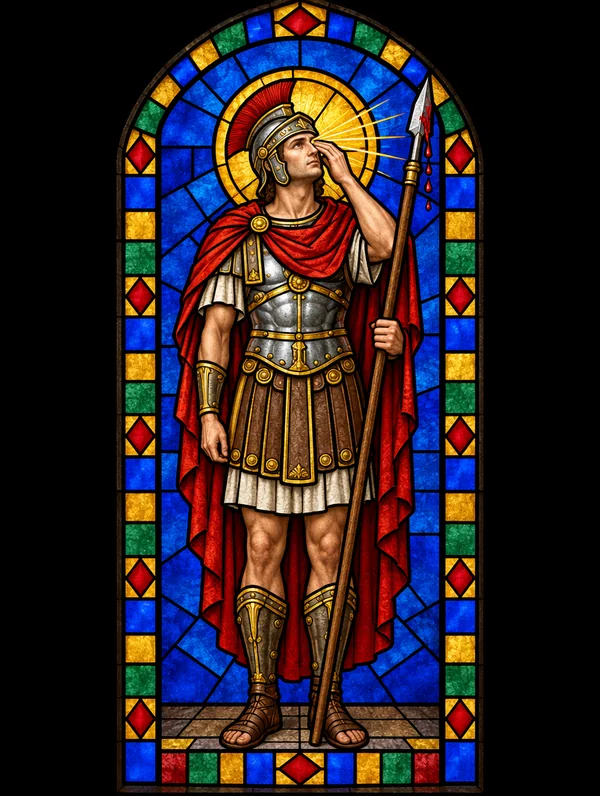
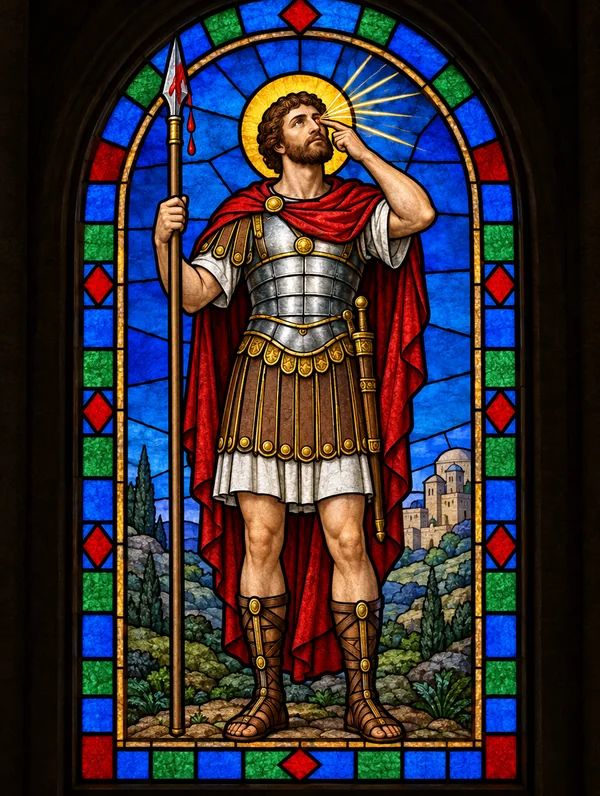
São Longuinho: vitral novo, com dois braços e a lança na mão direita
O endereço da imagem ganha ?v=2, para quem guardou o jogo sem internet baixar só ela de novo.

Claude-Session: https://claude.ai/code/session_013or7u1RPkYaDd9GnH7xnZ8

diff --git a/index.html b/index.html
@@ -1245,8 +1245,11 @@ h1 { font-family: var(--display); font-weight: 400; font-size: 2rem; margin: 0; 
   // Santos com imagem aprovada. Quem não está na lista aparece com o desenho em SVG.
   const COM_FIGURA = ["pedro", "paulo", "francisco", "jorge", "teresinha", "antonio", "sebastiao", "luzia", "jose", "miguel", "barbara", "joao", "clara", "rita", "judas", "cristovao", "expedito", "nicolau", "pio", "cosme", "edwiges", "teresacalcuta", "joaopaulo", "bento", "madalena", "catarina", "lourenco", "agostinho", "inacio", "domingos", "jeronimo", "patricio", "cecilia", "bras", "roque", "tiago", "mateus", "marcos", "lucas", "joaoev", "andre", "estevao", "martinho", "helena", "joana", "faustina", "bernadete", "teresaavila", "galvao", "anchieta", "benedito", "longuinho", "ambrosio", "gregorio", "apolonia", "rosalima", "xavier", "antao", "kolbe", "ferrer", "bakhita", "eloi", "huberto", "goncalo", "isidoro", "bartolomeu", "barnabe", "rafael", "josemaria", "ana", "monica", "veronica", "dulce", "margaridamaria", "gabriel", "reismagos", "joaobosco", "carloacutis", "vicentepaulo", "marta", "isabel", "catarinasena", "efigenia", "paulina", "gianna", "joaquim", "luisgonzaga", "camilo", "martinholima", "raimundononato", "vianney", "tarcisio", "joaodiego", "simaostock", "dimas", "onofre", "tomasaquino", "carlosborromeu", "joaodacruz", "brigida", "escolastica", "doroteia", "edithstein", "filipe", "tiagomenor", "joaodedeus", "januario", "bonifacio", "nepomuceno", "frassati", "charbel", "cupertino", "foucauld", "inacioantioquia", "tomasbecket", "brandao", "amaro", "ivo", "ines", "pastorinhos", "tome", "tomasmore", "boaventura", "bruno", "filipeneri", "franciscopaula", "germano", "ezequielmoreno", "tomasvilanova", "joaosahagun", "nicolautolentino", "madalenanagasaki", "simao", "matias", "valentim", "silvestre", "pancracio", "geraldo", "catarinalaboure", "joaoxxiii", "domingossavio", "mariagoretti", "lazaro", "piox", "luisrei", "paulovi", "franciscosales", "afonso", "bernardo", "crisostomo", "dionisio", "ursula", "genoveva", "damiao", "pedroclaver", "romero", "zita", "peregrino", "luiszelia", "luisamarillac", "pedroalcantara", "cunhau", "margaridaantioquia", "paulomiki", "gil", "vito", "roquegonzalez", "kateri", "junipero", "fiacre", "venceslau", "clemente", "perpetua", "basilio", "leao", "anselmo", "beda", "norberto", "kostka", "angelamerici", "lwanga", "cirilometodio", "solano", "mariaegipciaca"];   // img/santos/<id>.webp
   const COM_SIMBOLOS = ["pedro", "paulo", "francisco", "jorge", "teresinha", "antonio", "sebastiao", "luzia", "jose", "miguel", "barbara", "joao", "clara", "rita", "judas", "cristovao", "expedito", "nicolau", "pio", "cosme", "edwiges", "teresacalcuta", "joaopaulo", "bento", "madalena", "catarina", "lourenco", "agostinho", "inacio", "domingos", "jeronimo", "patricio", "cecilia", "bras", "roque", "tiago", "mateus", "marcos", "lucas", "joaoev", "andre", "estevao", "martinho", "helena", "joana", "faustina", "bernadete", "teresaavila", "galvao", "anchieta", "benedito", "longuinho", "ambrosio", "gregorio", "apolonia", "rosalima", "xavier", "antao", "kolbe", "ferrer", "bakhita", "eloi", "huberto", "goncalo", "isidoro", "bartolomeu", "barnabe", "rafael", "josemaria", "ana", "monica", "veronica", "dulce", "margaridamaria", "gabriel", "reismagos", "joaobosco", "carloacutis", "vicentepaulo", "marta", "isabel", "catarinasena", "efigenia", "paulina", "gianna", "joaquim", "luisgonzaga", "camilo", "martinholima", "raimundononato", "vianney", "tarcisio", "joaodiego", "simaostock", "dimas", "onofre", "tomasaquino", "carlosborromeu", "joaodacruz", "brigida", "escolastica", "doroteia", "edithstein", "filipe", "tiagomenor", "joaodedeus", "januario", "bonifacio", "nepomuceno", "frassati", "charbel", "cupertino", "foucauld", "inacioantioquia", "tomasbecket", "brandao", "amaro", "ivo", "ines", "pastorinhos", "tome", "tomasmore", "boaventura", "bruno", "filipeneri", "franciscopaula", "germano", "ezequielmoreno", "tomasvilanova", "joaosahagun", "nicolautolentino", "madalenanagasaki", "simao", "matias", "valentim", "silvestre", "pancracio", "geraldo", "catarinalaboure", "joaoxxiii", "domingossavio", "mariagoretti", "lazaro", "piox", "luisrei", "paulovi", "franciscosales", "afonso", "bernardo", "crisostomo", "dionisio", "ursula", "genoveva", "damiao", "pedroclaver", "romero", "zita", "peregrino", "luiszelia", "luisamarillac", "pedroalcantara", "cunhau", "margaridaantioquia", "paulomiki", "gil", "vito", "roquegonzalez", "kateri", "junipero", "fiacre", "venceslau", "clemente", "perpetua", "basilio", "leao", "anselmo", "beda", "norberto", "kostka", "angelamerici", "lwanga", "cirilometodio", "solano", "mariaegipciaca"]; // img/simbolos/<id>.webp
-  const imgFor = (id, md) => md === "imagem" ? (COM_FIGURA.includes(id) ? `img/santos/${id}.webp` : null)
-    : (COM_SIMBOLOS.includes(id) ? `img/simbolos/${id}.webp` : null);
+  // Imagem refeita com o mesmo nome: o número entra no endereço, e os aparelhos que guardaram o jogo baixam só ela de novo
+  const REFEITAS = { "santos/longuinho": 2 };
+  const arquivo = (serie, id) => `img/${serie}/${id}.webp` + (REFEITAS[`${serie}/${id}`] ? `?v=${REFEITAS[`${serie}/${id}`]}` : "");
+  const imgFor = (id, md) => md === "imagem" ? (COM_FIGURA.includes(id) ? arquivo("santos", id) : null)
+    : (COM_SIMBOLOS.includes(id) ? arquivo("simbolos", id) : null);
   function artFor(saint, md) {
     const src = imgFor(saint.id, md);
     return src ? `<img class="glass" src="${src}" width="600" height="796" alt="${md === "imagem" ? "Vitral de um santo" : "Vitral com símbolos de um santo"}">` : windowSVG(saint);
@@ -1439,7 +1442,7 @@ h1 { font-family: var(--display); font-weight: 400; font-size: 2rem; margin: 0; 
 
   // Jogar sem internet. O sw.js serve o que estiver guardado no aparelho; aqui se guardam as imagens todas de uma vez.
   const CACHE_IMAGENS = "quiz-santos-imagens-v1"; // o mesmo nome que está no sw.js
-  const todasImagens = () => [...COM_FIGURA.map(id => `img/santos/${id}.webp`), ...COM_SIMBOLOS.map(id => `img/simbolos/${id}.webp`)];
+  const todasImagens = () => [...COM_FIGURA.map(id => arquivo("santos", id)), ...COM_SIMBOLOS.map(id => arquivo("simbolos", id))];
   const offline = {
     async faltam() {
       const tem = new Set((await (await window.caches.open(CACHE_IMAGENS)).keys()).map(r => r.url.split("/img/")[1]));

diff --git a/testes/verifica.js b/testes/verifica.js
@@ -271,6 +271,13 @@ const MULHERES = "teresinha luzia catarina barbara clara rita cecilia apolonia h
   }
 }
 
+// J. Imagem refeita: São Longuinho ganhou vitral novo em 13/10/2026 e o endereço muda, para os aparelhos baixarem de novo
+{
+  const { q } = carregar();
+  confere(q.imgFor("longuinho", "imagem") === "img/santos/longuinho.webp?v=2", "J: a figura de São Longuinho deveria vir com ?v=2");
+  confere(q.imgFor("longuinho", "simbolos") === "img/simbolos/longuinho.webp", "J: os símbolos de São Longuinho não mudaram");
+}
+
 // I. Compartilhar pelo WhatsApp: o botão leva a mensagem e o link do jogo, sem o ?/# de quem compartilhou
 {
   const { els } = carregar({}, null, { location: { protocol: "https:", origin: "https://exemplo.test", pathname: "/quiz/", search: "?x=1", hash: "#y" } });

diff --git a/sw.js b/sw.js
@@ -1,6 +1,6 @@
 // Deixa o Quiz dos Santos abrir sem internet: guarda a página e as imagens no aparelho e as serve de lá.
-// Mudou favicon, ícone ou manifesto: suba o número de CASCA. Refez imagem com o mesmo nome: suba o de IMAGENS
-// (e o mesmo nome no index.html), para os aparelhos baixarem de novo.
+// Mudou favicon, ícone ou manifesto: suba o número de CASCA. Refez imagem com o mesmo nome: ponha (ou suba) o número
+// dela em REFEITAS, no index.html, e só ela é baixada de novo. Subir o de IMAGENS faz baixar todas outra vez.
 const CASCA = "quiz-santos-casca-v1";
 const IMAGENS = "quiz-santos-imagens-v1";
 const ARQUIVOS = ["./", "manifest.webmanifest", "favicon.svg", "favicon-180.png", "icone-192.png", "icone-512.png", "icone-mascara-512.png"];
